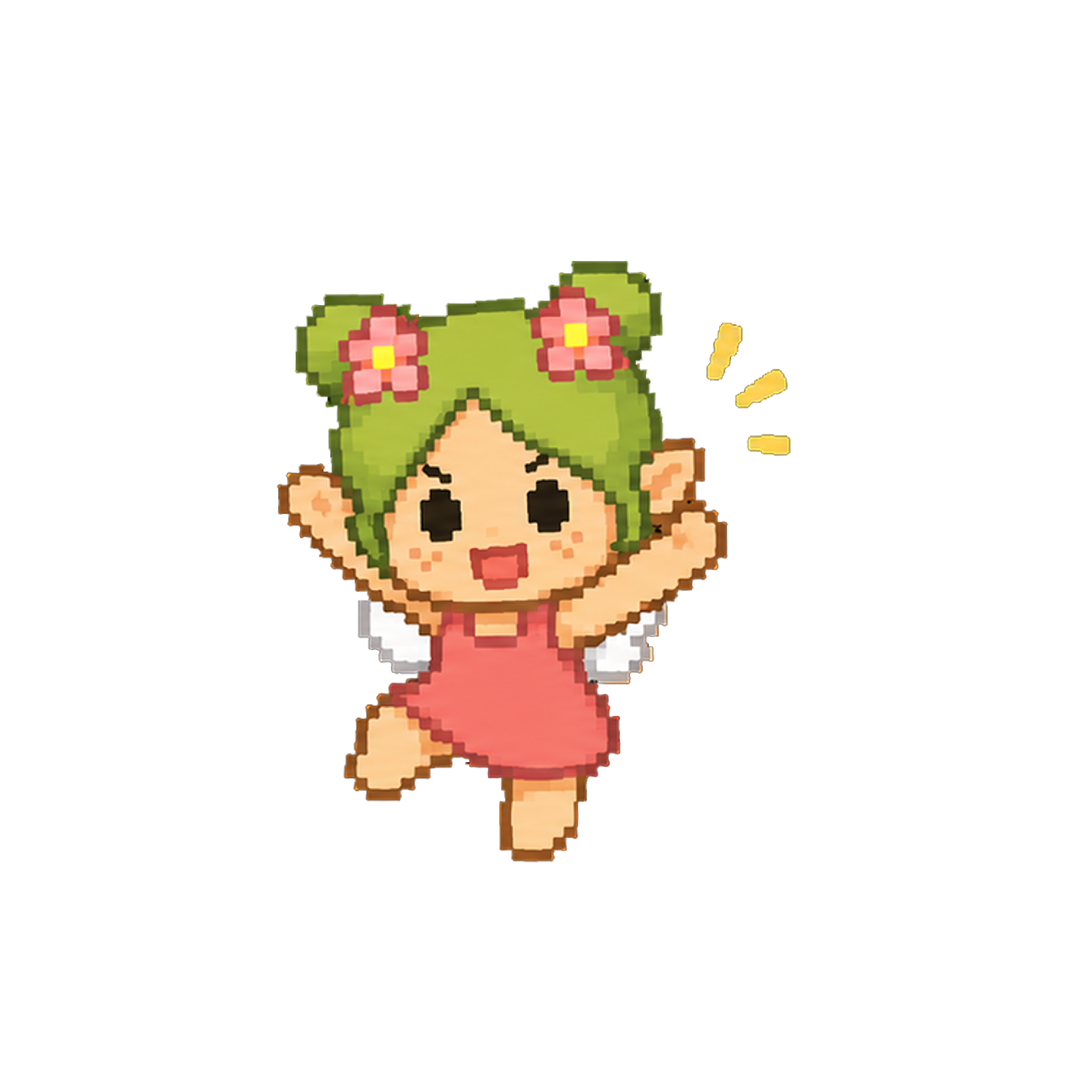
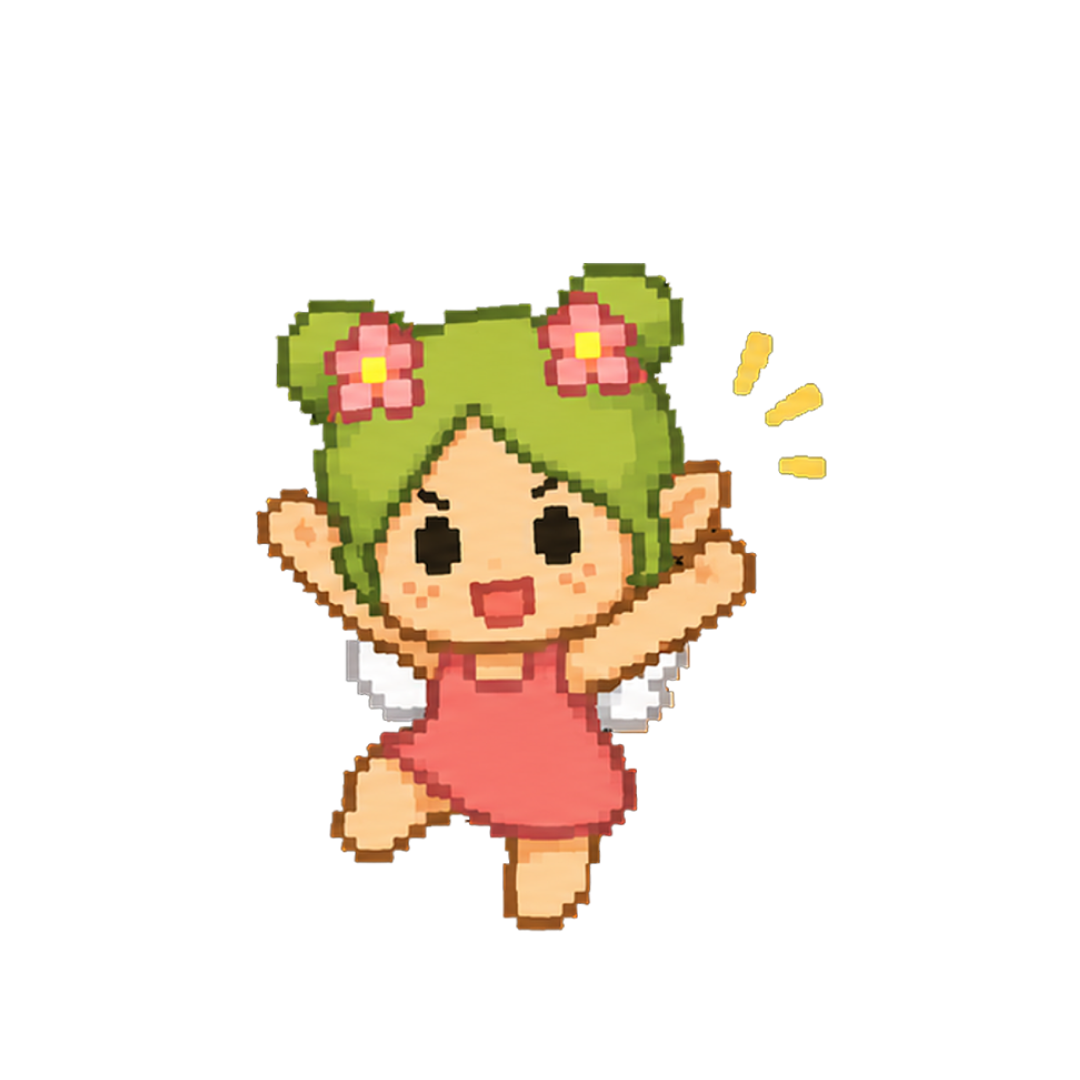
fix(character): 피요 먹기 모션 교체 + 모션 크기 idle과 통일 + 시작 포인트 100 고정
- 피요 eating 모션을 새 3프레임(서기→앉아 대기→앉아 씹기)으로 교체, idle 머리 크기 기준 정규화
- 피요 모든 모션(walking/eating/sit/sleep/cheer/heart)을 스케일 0.9로 통일 재정규화 — 모션↔idle 전환 시 스케일이 바뀌며 걷기 종료 등에서 한 프레임 작아지던 문제 제거(CharacterView 모션 배율에서 piyoo 제거)
- 시작 시 오늘의 운세 자동 추첨/보상을 제거해 첫 실행 포인트를 정확히 100으로 고정(운세 보상은 운세 탭 열 때 지급)

Changed region(s): [[0.2139, 0.2444, 0.7639, 0.8861]]

diff --git a/src/main/index.ts b/src/main/index.ts
@@ -6,7 +6,7 @@ import { registerWindowIpc } from './window'
 import { registerMenuIpc } from './menu'
 import { applyPlayerEvent, readPlayerState, registerPlayerStateIpc } from './playerState'
 import { registerTodoIpc } from './todo'
-import { applyFortuneEvent, registerFortuneIpc } from './fortune'
+import { registerFortuneIpc } from './fortune'
 import { registerItemIpc } from './item'
 import { registerScheduleIpc } from './schedule'
 import { registerCharacterSelectionIpc } from './characterSelection'
@@ -431,9 +431,8 @@ app.whenReady().then(() => {
         },
     )
 
-    // 앱 시작 시 오늘 운세를 보장한다(없으면 추첨 + 점수 보상). 날짜당 멱등.
-    // (통합 메뉴 창으로 바뀐 뒤 자동 팝업은 없앴다 — 운세는 우클릭 메뉴 → 운세 탭에서 본다.)
-    applyFortuneEvent({ type: 'roll' }, onFortuneRolled)
+    // 앱 시작 시엔 운세를 자동으로 굴리지 않는다 — 시작 잔고를 정확히 100으로 유지하기 위함.
+    // (운세 추첨 + 점수 보상은 사용자가 운세 탭을 열 때 FortuneTab에서 roll()로 지급된다. 날짜당 멱등.)
 
     app.on('activate', () => {
         if (BrowserWindow.getAllWindows().length === 0) {

diff --git a/src/renderer/src/entities/character/ui/CharacterView.tsx b/src/renderer/src/entities/character/ui/CharacterView.tsx
@@ -36,7 +36,8 @@ const CHARACTER_DISPLAY_SCALE: Record<CharacterId, number> = {
 // 모션/표정(override 프레임)일 때 쓸 배율 오버라이드 — 모션 원본이 기본 포즈와 프레이밍이 달라
 // 기본 배율로는 크기가 안 맞는 캐릭터만 지정한다. 없으면 위 기본 배율을 그대로 쓴다.
 const CHARACTER_MOTION_SCALE: Partial<Record<CharacterId, number>> = {
-    piyoo: 1,
+    // piyoo는 모션 배율을 idle(base 0.9)과 통일한다 — 모션↔idle 전환 순간 스케일이 바뀌며
+    // 걷기 종료 등에서 한 프레임 축소되어 보이던 '작아짐'을 없애기 위함. 프레임은 0.9 기준으로 재정규화됨.
     wingpee: 1.1,
 }
 
